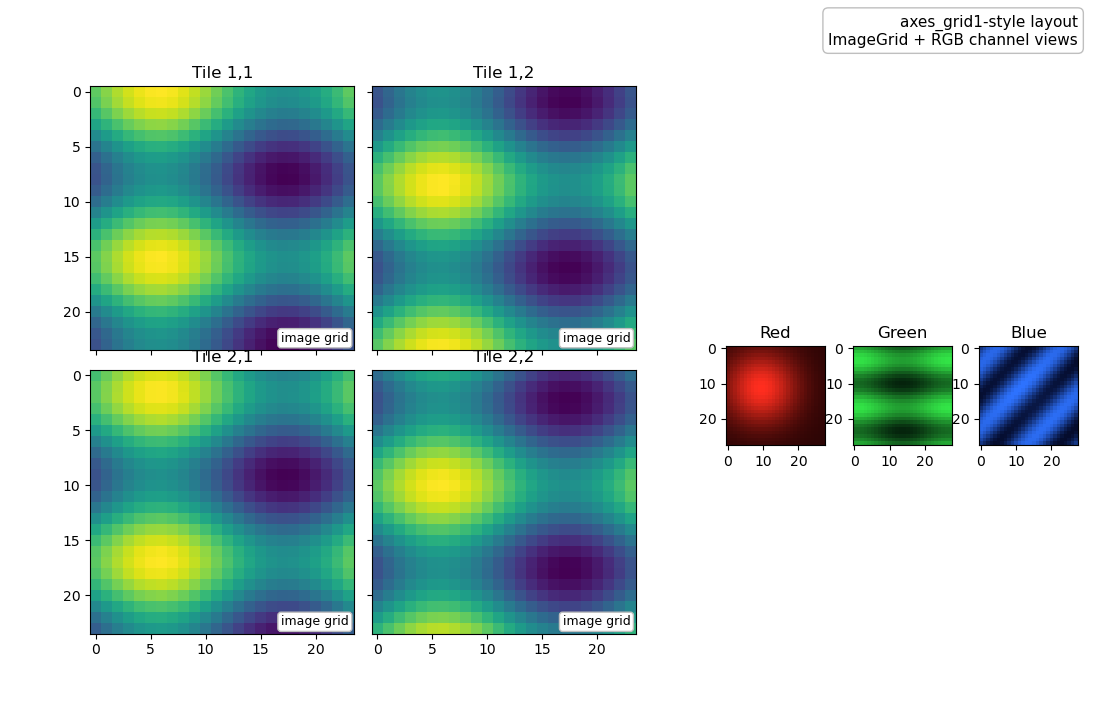
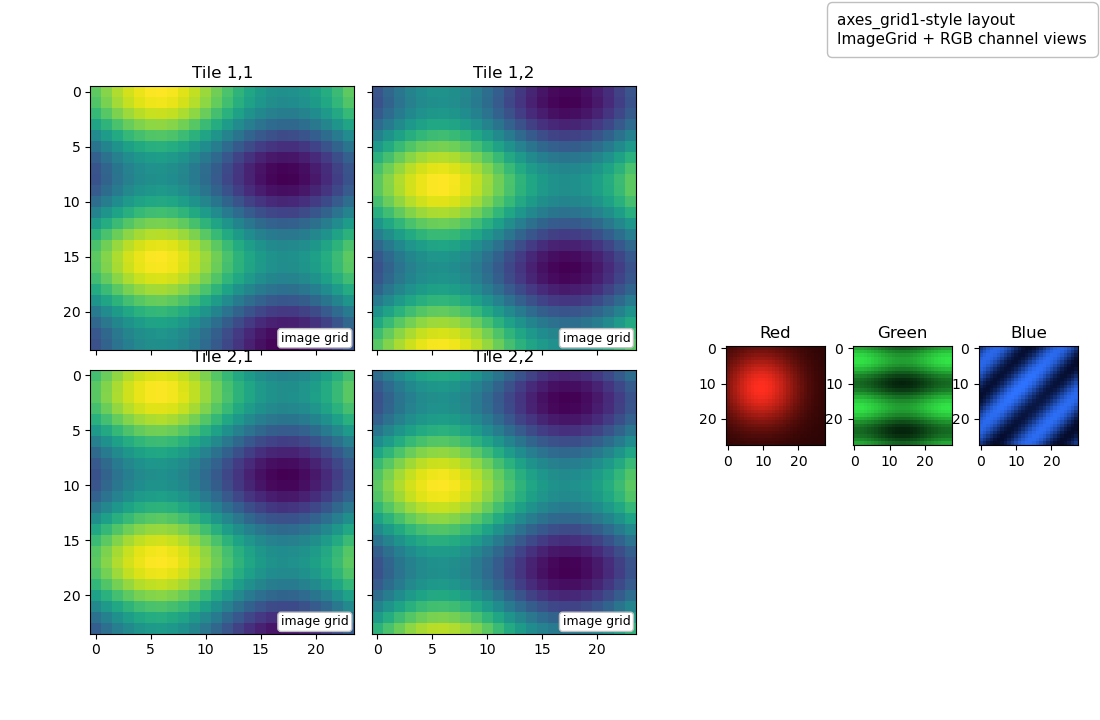
feat: Enhance AnchoredText options and add tests for layout rendering

Changed region(s): [[0.7418, 0.0, 1.0, 0.0917]]

diff --git a/core/anchored_text.go b/core/anchored_text.go
@@ -15,6 +15,7 @@ type AnchoredTextOptions struct {
 	Padding         float64
 	Inset           float64
 	RowGap          float64
+	BoxPadding      float64
 	CornerRadius    float64
 	BackgroundColor render.Color
 	BorderColor     render.Color
@@ -32,6 +33,7 @@ type AnchoredTextBox struct {
 	Padding         float64
 	Inset           float64
 	RowGap          float64
+	BoxPadding      float64
 	CornerRadius    float64
 	BackgroundColor render.Color
 	BorderColor     render.Color
@@ -64,9 +66,9 @@ func (f *Figure) AddAnchoredText(text string, opts ...AnchoredTextOptions) *Anch
 func newAnchoredTextBox(text string, rc style.RC, opts ...AnchoredTextOptions) *AnchoredTextBox {
 	cfg := AnchoredTextOptions{
 		Location:        LegendUpperLeft,
-		Padding:         8,
-		Inset:           8,
-		RowGap:          4,
+		Padding:         -1,
+		Inset:           -1,
+		RowGap:          -1,
 		CornerRadius:    0,
 		BackgroundColor: rc.LegendBackground,
 		BorderColor:     rc.LegendBorderColor,
@@ -85,6 +87,9 @@ func newAnchoredTextBox(text string, rc style.RC, opts ...AnchoredTextOptions) *
 		}
 		if opt.RowGap > 0 {
 			cfg.RowGap = opt.RowGap
+		}
+		if opt.BoxPadding > 0 {
+			cfg.BoxPadding = opt.BoxPadding
 		}
 		if opt.CornerRadius > 0 {
 			cfg.CornerRadius = opt.CornerRadius
@@ -113,6 +118,7 @@ func newAnchoredTextBox(text string, rc style.RC, opts ...AnchoredTextOptions) *
 		Padding:         cfg.Padding,
 		Inset:           cfg.Inset,
 		RowGap:          cfg.RowGap,
+		BoxPadding:      cfg.BoxPadding,
 		CornerRadius:    cfg.CornerRadius,
 		BackgroundColor: cfg.BackgroundColor,
 		BorderColor:     cfg.BorderColor,
@@ -138,35 +144,16 @@ func (a *AnchoredTextBox) Draw(r render.Renderer, ctx *DrawContext) {
 		return
 	}
 
-	fontSize := resolvedFontSize(a.FontSize, ctx)
-	maxWidth := 0.0
-	lineHeights := make([]float64, len(lines))
 	layouts := make([]singleLineTextLayout, len(lines))
+	fontSize := resolvedFontSize(a.FontSize, ctx)
 	for i, line := range lines {
-		layout := measureSingleLineTextLayout(r, line, fontSize, ctx.RC.FontKey)
-		layouts[i] = layout
-		if layout.Width > maxWidth {
-			maxWidth = layout.Width
-		}
-		lineHeight := layout.Height
-		if lineHeight < fontSize {
-			lineHeight = fontSize
-		}
-		lineHeights[i] = lineHeight
+		layouts[i] = measureSingleLineTextLayout(r, line, fontSize, ctx.RC.FontKey)
 	}
 
-	contentHeight := 0.0
-	for _, h := range lineHeights {
-		contentHeight += h
-	}
-	if len(lineHeights) > 1 {
-		contentHeight += a.RowGap * float64(len(lineHeights)-1)
-	}
-
-	box := resolveAnchoredBoxRect(a.Locator, ctx.Clip, maxWidth+a.Padding*2, contentHeight+a.Padding*2, a.Location, a.Inset)
-	boxPath := pixelRectPath(box)
+	boxLayout := a.layout(r, ctx, layouts, fontSize)
+	boxPath := pixelRectPath(boxLayout.patchBox)
 	if a.CornerRadius > 0 {
-		boxPath = roundedRectPath(box, a.CornerRadius)
+		boxPath = roundedRectPath(boxLayout.patchBox, a.CornerRadius)
 	}
 	r.Path(boxPath, &render.Paint{
 		Fill:      a.BackgroundColor,
@@ -176,15 +163,15 @@ func (a *AnchoredTextBox) Draw(r render.Renderer, ctx *DrawContext) {
 		LineCap:   render.CapButt,
 	})
 
-	y := box.Min.Y + a.Padding
+	y := boxLayout.contentBox.Min.Y + boxLayout.padding
 	for i, line := range lines {
 		layout := layouts[i]
 		if line == "" {
-			y += lineHeights[i] + a.RowGap
+			y += a.lineAdvance(fontSize, ctx)
 			continue
 		}
 		anchor := geom.Pt{
-			X: box.Min.X + a.Padding,
+			X: boxLayout.contentBox.Min.X + boxLayout.padding,
 			Y: y,
 		}
 		drawDisplayText(
@@ -195,7 +182,7 @@ func (a *AnchoredTextBox) Draw(r render.Renderer, ctx *DrawContext) {
 			resolvedTextColor(a.TextColor, ctx),
 			ctx.RC.FontKey,
 		)
-		y += lineHeights[i] + a.RowGap
+		y += a.lineAdvance(fontSize, ctx)
 	}
 }
 
@@ -224,24 +211,86 @@ func (a *AnchoredTextBox) boxRect(r render.Renderer, ctx *DrawContext) (geom.Rec
 	}
 
 	fontSize := resolvedFontSize(a.FontSize, ctx)
+	layouts := make([]singleLineTextLayout, len(lines))
+	for i, line := range lines {
+		layouts[i] = measureSingleLineTextLayout(r, line, fontSize, ctx.RC.FontKey)
+	}
+
+	return a.layout(r, ctx, layouts, fontSize).patchBox, true
+}
+
+type anchoredTextLayout struct {
+	contentBox geom.Rect
+	patchBox   geom.Rect
+	padding    float64
+}
+
+func (a *AnchoredTextBox) layout(_ render.Renderer, ctx *DrawContext, layouts []singleLineTextLayout, fontSize float64) anchoredTextLayout {
+	padding := a.resolvedPadding(fontSize, ctx)
+	inset := a.resolvedInset(fontSize, ctx)
+	boxPadding := a.resolvedBoxPadding()
 	maxWidth := 0.0
-	contentHeight := 0.0
-	for _, line := range lines {
-		layout := measureSingleLineTextLayout(r, line, fontSize, ctx.RC.FontKey)
+	for _, layout := range layouts {
 		if layout.Width > maxWidth {
 			maxWidth = layout.Width
 		}
-		lineHeight := layout.Height
-		if lineHeight < fontSize {
-			lineHeight = fontSize
-		}
-		contentHeight += lineHeight
 	}
-	if len(lines) > 1 {
-		contentHeight += a.RowGap * float64(len(lines)-1)
+	contentHeight := 0.0
+	if len(layouts) > 0 {
+		contentHeight = a.lineHeight(fontSize, ctx) + a.lineAdvance(fontSize, ctx)*float64(len(layouts)-1)
 	}
+	contentBox := resolveAnchoredBoxRect(a.Locator, ctx.Clip, maxWidth+padding*2, contentHeight+padding*2, a.Location, inset)
+	return anchoredTextLayout{
+		contentBox: contentBox,
+		patchBox:   expandAnchoredRect(contentBox, boxPadding),
+		padding:    padding,
+	}
+}
 
-	return resolveAnchoredBoxRect(a.Locator, ctx.Clip, maxWidth+a.Padding*2, contentHeight+a.Padding*2, a.Location, a.Inset), true
+func (a *AnchoredTextBox) resolvedPadding(fontSize float64, ctx *DrawContext) float64 {
+	if a != nil && a.Padding >= 0 {
+		return a.Padding
+	}
+	return pointsToPixels(ctx.RC, 0.4*fontSize)
+}
+
+func (a *AnchoredTextBox) resolvedInset(fontSize float64, ctx *DrawContext) float64 {
+	if a != nil && a.Inset >= 0 {
+		return a.Inset
+	}
+	return pointsToPixels(ctx.RC, 0.5*fontSize)
+}
+
+func (a *AnchoredTextBox) resolvedRowGap(fontSize float64, ctx *DrawContext) float64 {
+	if a != nil && a.RowGap >= 0 {
+		return a.RowGap
+	}
+	return 0.2 * a.lineHeight(fontSize, ctx)
+}
+
+func (a *AnchoredTextBox) resolvedBoxPadding() float64 {
+	if a == nil || a.BoxPadding <= 0 {
+		return 0
+	}
+	return a.BoxPadding
+}
+
+func (a *AnchoredTextBox) lineHeight(fontSize float64, ctx *DrawContext) float64 {
+	return pointsToPixels(ctx.RC, fontSize)
+}
+
+func (a *AnchoredTextBox) lineAdvance(fontSize float64, ctx *DrawContext) float64 {
+	return a.lineHeight(fontSize, ctx) + a.resolvedRowGap(fontSize, ctx)
+}
+
+func expandAnchoredRect(r geom.Rect, pad float64) geom.Rect {
+	if pad <= 0 {
+		return r
+	}
+	return geom.Rect{
+		Min: geom.Pt{X: r.Min.X - pad, Y: r.Min.Y - pad},
+		Max: geom.Pt{X: r.Max.X + pad, Y: r.Max.Y + pad},
+	}
 }
 
 func anchoredBoxRect(clip geom.Rect, width, height float64, location LegendLocation, inset float64) geom.Rect {

diff --git a/test/matplotlib_ref/plots/axes_grid1_showcase.py b/test/matplotlib_ref/plots/axes_grid1_showcase.py
@@ -7,6 +7,8 @@ from pathlib import Path
 import argparse
 import sys
 
+from matplotlib.offsetbox import AnchoredText
+
 try:
     from test.matplotlib_ref.common import *  # noqa: F401,F403
 except ModuleNotFoundError:
@@ -80,15 +82,20 @@ def axes_grid1_showcase(out_dir):
         ax.set_yticks([0, 10, 20])
         ax.imshow(data, origin="upper", cmap=channel_cmaps[title])
 
-    fig.text(
-        0.98,
-        0.98,
+    note = AnchoredText(
         "axes_grid1-style layout\nImageGrid + RGB channel views",
-        ha="right",
-        va="top",
-        fontsize=11,
-        bbox=dict(boxstyle="round,pad=0.35", facecolor="white", edgecolor=(0.75, 0.75, 0.75, 1.0)),
+        loc="upper right",
+        prop={"size": 11},
+        pad=0.35,
+        borderpad=0.5,
+        frameon=True,
+        bbox_to_anchor=(0, 0, 1, 1),
+        bbox_transform=fig.transFigure,
     )
+    note.patch.set_boxstyle("round,pad=0.35")
+    note.patch.set_facecolor("white")
+    note.patch.set_edgecolor((0.75, 0.75, 0.75, 1.0))
+    fig.add_artist(note)
 
     save(fig, out_dir, "axes_grid1_showcase")
 

diff --git a/examples/axes_grid1/basic.go b/examples/axes_grid1/basic.go
@@ -77,8 +77,17 @@ func main() {
 		channel.ax.YAxis.Locator = core.FixedLocator{TicksList: []float64{0, 10, 20}}
 	}
 
+	notePad := 0.35 * 11 * fig.RC.DPI / 72
+	noteInset := 0.5 * 11 * fig.RC.DPI / 72
 	fig.AddAnchoredText("axes_grid1-style layout\nImageGrid + RGB channel views", core.AnchoredTextOptions{
-		Location: core.LegendUpperRight,
+		Location:        core.LegendUpperRight,
+		Padding:         notePad,
+		Inset:           noteInset,
+		BoxPadding:      notePad,
+		CornerRadius:    notePad,
+		BackgroundColor: render.Color{R: 1, G: 1, B: 1, A: 1},
+		BorderColor:     render.Color{R: 0.75, G: 0.75, B: 0.75, A: 1},
+		FontSize:        11,
 	})
 
 	r, _, err := backends.NewRendererFromEnv(backends.Config{

diff --git a/test/showcase_parity_test.go b/test/showcase_parity_test.go
@@ -376,8 +376,17 @@ func renderAxesGrid1Showcase() image.Image {
 		})
 	}
 
+	notePad := 0.35 * 11 * fig.RC.DPI / 72
+	noteInset := 0.5 * 11 * fig.RC.DPI / 72
 	fig.AddAnchoredText("axes_grid1-style layout\nImageGrid + RGB channel views", core.AnchoredTextOptions{
-		Location: core.LegendUpperRight,
+		Location:        core.LegendUpperRight,
+		Padding:         notePad,
+		Inset:           noteInset,
+		BoxPadding:      notePad,
+		CornerRadius:    notePad,
+		BackgroundColor: render.Color{R: 1, G: 1, B: 1, A: 1},
+		BorderColor:     render.Color{R: 0.75, G: 0.75, B: 0.75, A: 1},
+		FontSize:        11,
 	})
 
 	r, err := agg.New(1100, 720, render.Color{R: 1, G: 1, B: 1, A: 1})

diff --git a/core/anchored_locator_test.go b/core/anchored_locator_test.go
@@ -84,8 +84,9 @@ func TestAnchoredTextOptionsMergeWithDefaults(t *testing.T) {
 		FontSize:        10,
 	})
 
-	if box.RowGap != 4 {
-		t.Fatalf("row gap = %v, want default 4", box.RowGap)
+	ctx := &DrawContext{RC: styleRCForAnchoredTextTest()}
+	if got, want := box.resolvedRowGap(10, ctx), pointsToPixels(ctx.RC, 2); !floatApprox(got, want, 1e-9) {
+		t.Fatalf("resolved row gap = %v, want %v", got, want)
 	}
 	if box.BorderWidth != 1 {
 		t.Fatalf("border width = %v, want default 1", box.BorderWidth)
